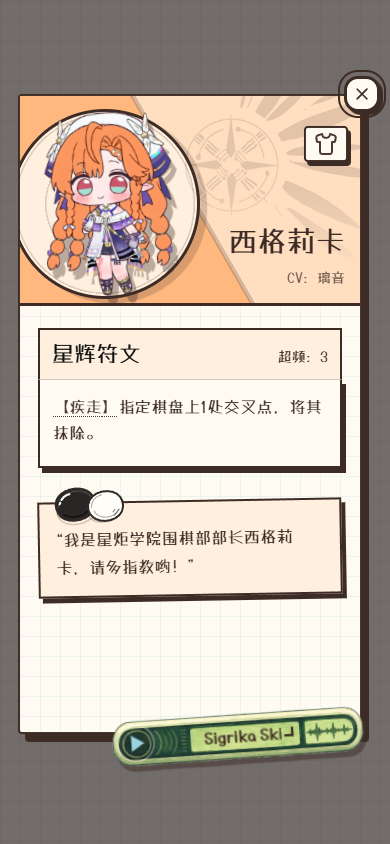
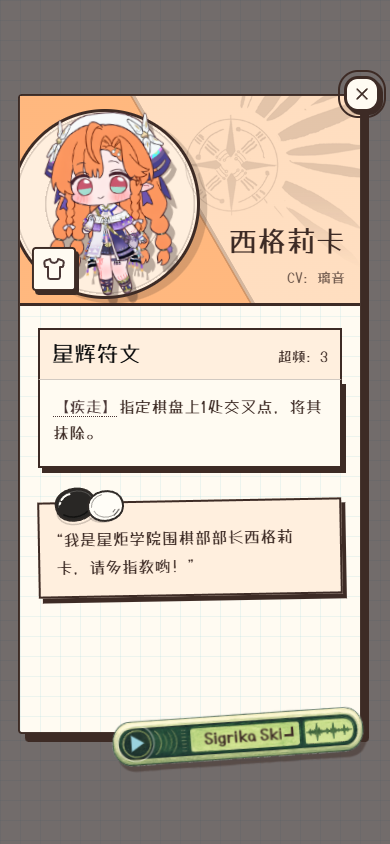
docs(ui): place mobile handbook wardrobe button at lower left

Changed region(s): [[0.0615, 0.2773, 0.2154, 0.3697], [0.7692, 0.1232, 0.9231, 0.2156]]

diff --git a/docs/system-design.html b/docs/system-design.html
@@ -54,7 +54,7 @@
 <body>
 <h1>SigrikaGo 系统设计</h1>
 <h3>2026-10-22 角色详情游戏展示三版样板</h3>
-<p>按「游戏角色页，不是说明文」的反馈重做<a href="./design-samples/handbook-paper-2026-10-22/index.html">部员手册角色详情比较页</a>：角色展示台强调大立绘、角色专色和圆形底台；战术卡册使用深墨角色卡与专色环纹；漫画分镜采用网点、爆发纹和尖角对白框。第1版进一步加入角落超大裁切徽记与原网格背景，立绘底板用当前主题色与浅色近似各半拼接，交界参照父技能卡与派生卡的叠放关系，用同主题浅色细边和短实阴影表现前层压住后层，斜线边缘以小于1px的颜色覆盖平滑锯齿；手机分割线从上往下切割并相对竖直方向倾斜约30度，放大收音机悬在右下并将关闭按钮中心放在右上纸角；正文滚动区为外伸控件预留空间。关闭按钮进一步对齐项目常用圆角方形纸色与墨边硬阴影，悬停不显示额外外圈、保留键盘焦点反馈；派生卡错位叠在父技能下方，标题与正文分色，简介悬停取消下划线并在左上加入无外围短线的手绘黑白棋装饰。收音机播放／暂停键悬停不再改变图标与圆环颜色，保留各播放状态的颜色、按下和焦点反馈。隐藏获得途径、去掉CV下划线；手机立绘居左、姓名与CV居右下并避开按钮。三版保留墨色厚阴影、悬停／按下反馈与手机竖屏布局，技能名、超频、CV 和获得方式仍不使用标签式圆角矩形。复用正式详情、衣柜、音乐、特性说明、立绘及既有阵营映射，使用公开目录快照和内存预览状态，不连接账号写入；正式组件和主题尚未替换。布局取舍与验证见<a href="./design-samples/handbook-paper-2026-10-22/README.md">样板说明</a>。</p>
+<p>按「游戏角色页，不是说明文」的反馈重做<a href="./design-samples/handbook-paper-2026-10-22/index.html">部员手册角色详情比较页</a>：角色展示台强调大立绘、角色专色和圆形底台；战术卡册使用深墨角色卡与专色环纹；漫画分镜采用网点、爆发纹和尖角对白框。第1版进一步加入角落超大裁切徽记与原网格背景，立绘底板用当前主题色与浅色近似各半拼接，交界参照父技能卡与派生卡的叠放关系，用同主题浅色细边和短实阴影表现前层压住后层，斜线边缘以小于1px的颜色覆盖平滑锯齿；手机分割线从上往下切割并相对竖直方向倾斜约30度，放大收音机悬在右下并将关闭按钮中心放在右上纸角；正文滚动区为外伸控件预留空间。关闭按钮进一步对齐项目常用圆角方形纸色与墨边硬阴影，悬停不显示额外外圈、保留键盘焦点反馈；派生卡错位叠在父技能下方，标题与正文分色，简介悬停取消下划线并在左上加入无外围短线的手绘黑白棋装饰。收音机播放／暂停键悬停不再改变图标与圆环颜色，保留各播放状态的颜色、按下和焦点反馈。隐藏获得途径、去掉CV下划线；手机立绘居左、姓名与CV居右下，服装入口为立绘区左下角的44px方形图标按钮。三版保留墨色厚阴影、悬停／按下反馈与手机竖屏布局，技能名、超频、CV 和获得方式仍不使用标签式圆角矩形。复用正式详情、衣柜、音乐、特性说明、立绘及既有阵营映射，使用公开目录快照和内存预览状态，不连接账号写入；正式组件和主题尚未替换。布局取舍与验证见<a href="./design-samples/handbook-paper-2026-10-22/README.md">样板说明</a>。</p>
 <h3>2026-10-22 观战纸卡正式接入</h3>
 <p>已将确认的<a href="./design-samples/watch-paper-2026-10-22/index.html">观战纸卡方案</a>接入正式 <code>WatchModal</code>。搜索框与好友一体纸框保持一致，无额外聚焦边框，继续输入即时筛选且不增加搜索按钮；卡片保留厚阴影及悬停／按下反馈。已结束对局使用浅灰背景，悬停与按下仍保持灰色，保留原观战入口、头像、身份、人数及手数吊牌。手机每场一张卡，<code>useWatchListRows</code> 按可用高度与名称自然高度安排完整行，保留滚动吸附和阴影余量。查询、刷新、错误恢复与入场流程不变；独立预览已改用生产样式与 hook，仍仅提供本地示例房间。桌面／竖屏与结束状态验证见<a href="./design-samples/watch-paper-2026-10-22/README.md">说明及截图</a>，布局契约见 <a href="./system-design/06-ui-theme-mobile.md">UI 主题分篇</a>。</p>
 <h3>2026-10-22 仓库纸卡布局正式接入</h3>

diff --git a/docs/design-samples/handbook-paper-2026-10-22/stage.css b/docs/design-samples/handbook-paper-2026-10-22/stage.css
@@ -113,7 +113,11 @@
     .character-detail-art::before { width: 190px; top: 52%; left: 25%; }
     .character-detail-art::after { width: 280px; height: 280px; top: -80px; left: auto; right: -70px; bottom: auto; opacity: calc(.2 * var(--hp-emblem-strength)); }
     .character-detail-figure { width: 53% !important; height: 98% !important; left: 26% !important; top: 51% !important; }
-    .character-costume-open-button { left: auto !important; right: 12px !important; top: 30px !important; bottom: auto !important; }
+    .character-costume-open-button {
+      left: 12px !important; right: auto !important; top: auto !important; bottom: 12px !important;
+      width: 44px !important; height: 44px !important; min-width: 44px !important; min-height: 44px !important;
+      padding: 0 !important; aspect-ratio: 1;
+    }
     .character-detail-copy { padding: 22px 18px 24px !important; }
     .character-detail-copy:has(.character-music-player) { height: calc(100% - 40px) !important; max-height: calc(100% - 40px) !important; }
     .character-detail-heading { width: auto !important; height: 0 !important; padding: 0 !important; margin: 0 !important; }

diff --git a/docs/system-design.md b/docs/system-design.md
@@ -2,7 +2,7 @@
 
 ### 2026-10-22 角色详情游戏展示三版样板
 
-按「游戏角色页，不是说明文」的反馈重做[部员手册角色详情比较页](./design-samples/handbook-paper-2026-10-22/index.html)：角色展示台强调大立绘、角色专色和圆形底台；战术卡册使用深墨角色卡与专色环纹；漫画分镜采用网点、爆发纹和尖角对白框。第1版进一步加入角落超大裁切徽记与原网格背景，立绘底板用当前主题色与浅色近似各半拼接，交界参照父技能卡与派生卡的叠放关系，用同主题浅色细边和短实阴影表现前层压住后层，斜线边缘以小于1px的颜色覆盖平滑锯齿；手机分割线从上往下切割并相对竖直方向倾斜约30度，放大收音机悬在右下并将关闭按钮中心放在右上纸角；正文滚动区为外伸控件预留空间。关闭按钮进一步对齐项目常用圆角方形纸色与墨边硬阴影，悬停不显示额外外圈、保留键盘焦点反馈；派生卡错位叠在父技能下方，标题与正文分色，简介悬停取消下划线并在左上加入无外围短线的手绘黑白棋装饰。收音机播放／暂停键悬停不再改变图标与圆环颜色，保留各播放状态的颜色、按下和焦点反馈。隐藏获得途径、去掉CV下划线；手机立绘居左、姓名与CV居右下并避开按钮。三版保留墨色厚阴影、悬停／按下反馈与手机竖屏布局，技能名、超频、CV 和获得方式仍不使用标签式圆角矩形。复用正式详情、衣柜、音乐、特性说明、立绘及既有阵营映射，使用公开目录快照和内存预览状态，不连接账号写入；正式组件和主题尚未替换。布局取舍与验证见[样板说明](./design-samples/handbook-paper-2026-10-22/README.md)。
+按「游戏角色页，不是说明文」的反馈重做[部员手册角色详情比较页](./design-samples/handbook-paper-2026-10-22/index.html)：角色展示台强调大立绘、角色专色和圆形底台；战术卡册使用深墨角色卡与专色环纹；漫画分镜采用网点、爆发纹和尖角对白框。第1版进一步加入角落超大裁切徽记与原网格背景，立绘底板用当前主题色与浅色近似各半拼接，交界参照父技能卡与派生卡的叠放关系，用同主题浅色细边和短实阴影表现前层压住后层，斜线边缘以小于1px的颜色覆盖平滑锯齿；手机分割线从上往下切割并相对竖直方向倾斜约30度，放大收音机悬在右下并将关闭按钮中心放在右上纸角；正文滚动区为外伸控件预留空间。关闭按钮进一步对齐项目常用圆角方形纸色与墨边硬阴影，悬停不显示额外外圈、保留键盘焦点反馈；派生卡错位叠在父技能下方，标题与正文分色，简介悬停取消下划线并在左上加入无外围短线的手绘黑白棋装饰。收音机播放／暂停键悬停不再改变图标与圆环颜色，保留各播放状态的颜色、按下和焦点反馈。隐藏获得途径、去掉CV下划线；手机立绘居左、姓名与CV居右下，服装入口为立绘区左下角的44px方形图标按钮。三版保留墨色厚阴影、悬停／按下反馈与手机竖屏布局，技能名、超频、CV 和获得方式仍不使用标签式圆角矩形。复用正式详情、衣柜、音乐、特性说明、立绘及既有阵营映射，使用公开目录快照和内存预览状态，不连接账号写入；正式组件和主题尚未替换。布局取舍与验证见[样板说明](./design-samples/handbook-paper-2026-10-22/README.md)。
 
 ### 2026-10-22 观战纸卡正式接入
 

diff --git a/docs/design-samples/handbook-paper-2026-10-22/README.md b/docs/design-samples/handbook-paper-2026-10-22/README.md
@@ -36,7 +36,7 @@
 - 播放／暂停键悬停保持对应状态的图标色与圆环边线，覆盖旧的全局悬停墨色；播放、加载及错误的状态颜色仍按既有语义显示。按下反馈和键盘焦点保留。
 - 派生卡相对父技能右移，顶部13px藏在父卡下方，轻微倾斜；卡内标题和正文不参与遮挡，标题保留角色浅色，正文使用独立纸色。桌面多技能窗口适当增高，手机保持内部滚动。[派生技桌面](./spread-aemeath.png) / [手机](./spread-aemeath-390.png)。
 - 移除获得途径，CV无下划线；链接行为与键盘焦点仍在。
-- 手机立绘居左，姓名与CV落在右下；衣柜在右上向下避开关闭按钮。长姓名使用更高的角色区。
+- 手机立绘居左，姓名与CV落在右下；服装入口是立绘区左下角的44px方形图标按钮，避开姓名与关闭按钮。长姓名使用更高的角色区。
 - 关闭按钮对齐项目常用的36px圆角方形、纸色背景、3px墨边和硬阴影，中心仍与纸面右上角重合；悬停不显示额外外圈，键盘焦点仍可见。外层预留空隙，收音机和按钮连同阴影仍处于视口内。
 - 简介悬停仅保留位移和阴影反馈，取消下划线。左上角用本目录 `go-stones-sketch.svg` 放置透明手绘黑白围棋装饰，保留棋子自身笔触并去掉外侧三根短线；非交互伪元素不遮挡文字，SVG原生缩放，无额外运行依赖。
 

diff --git a/.trellis/tasks/10-22-handbook-stage-wardrobe/prd.md b/.trellis/tasks/10-22-handbook-stage-wardrobe/prd.md
@@ -1,0 +1,15 @@
+# 展示台手机服装按钮移至左下
+
+## Goal and Requirements
+第1版样板手机端的服装按钮改到立绘区左下角，使用44px等宽等高图标按钮，保留纸色、墨边、硬阴影及操作反馈。避免遮挡姓名和CV；桌面与其它样板保持现状。
+
+## Acceptance Criteria
+- [x] 320/390px竖屏按钮方形、位于立绘区左下，姓名和关闭按钮无遮挡。
+- [x] 打开衣柜、关闭后恢复焦点正常，既有布局检查同步更新。
+- [x] 文档与截图同步。
+
+## Scope
+仅改stage.css的手机覆盖、现有样板验证和说明。没有正式组件或公共契约变更。
+
+## Validation
+样板ESLint、27组布局及6组桌面/手机交互通过，无API请求或浏览器错误。更新实际按钮几何断言，验证方形触控区及左下位置；衣柜焦点返回检查通过。系统设计HTML生成及4项文档测试通过，diff空白检查通过。
